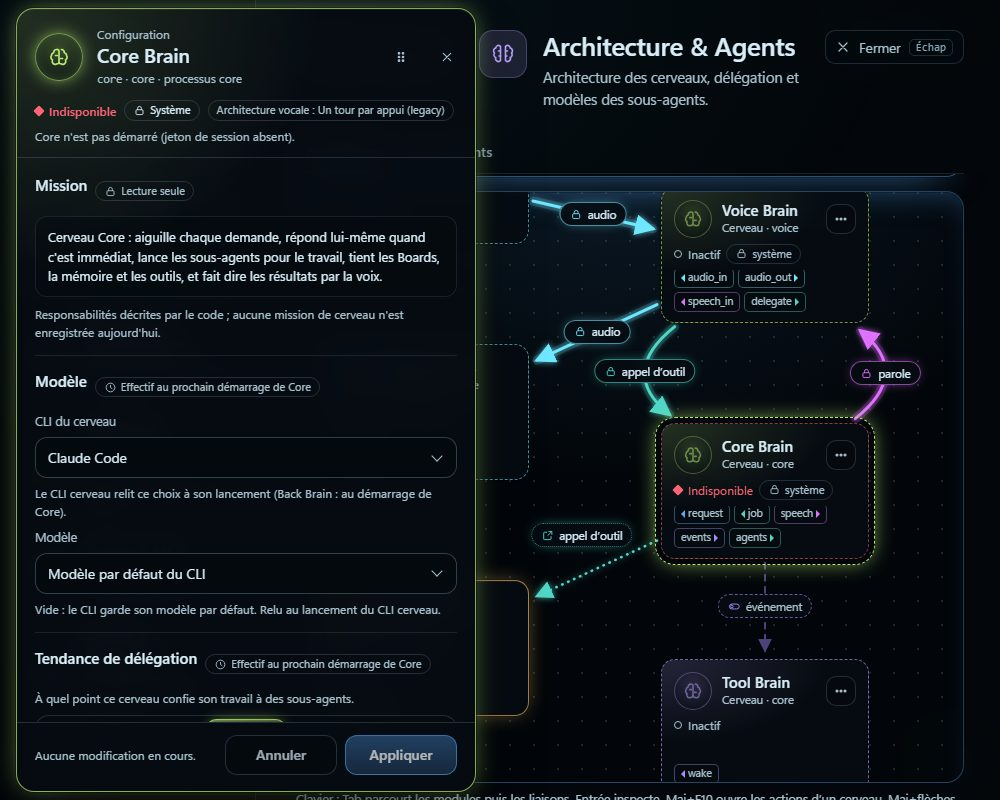
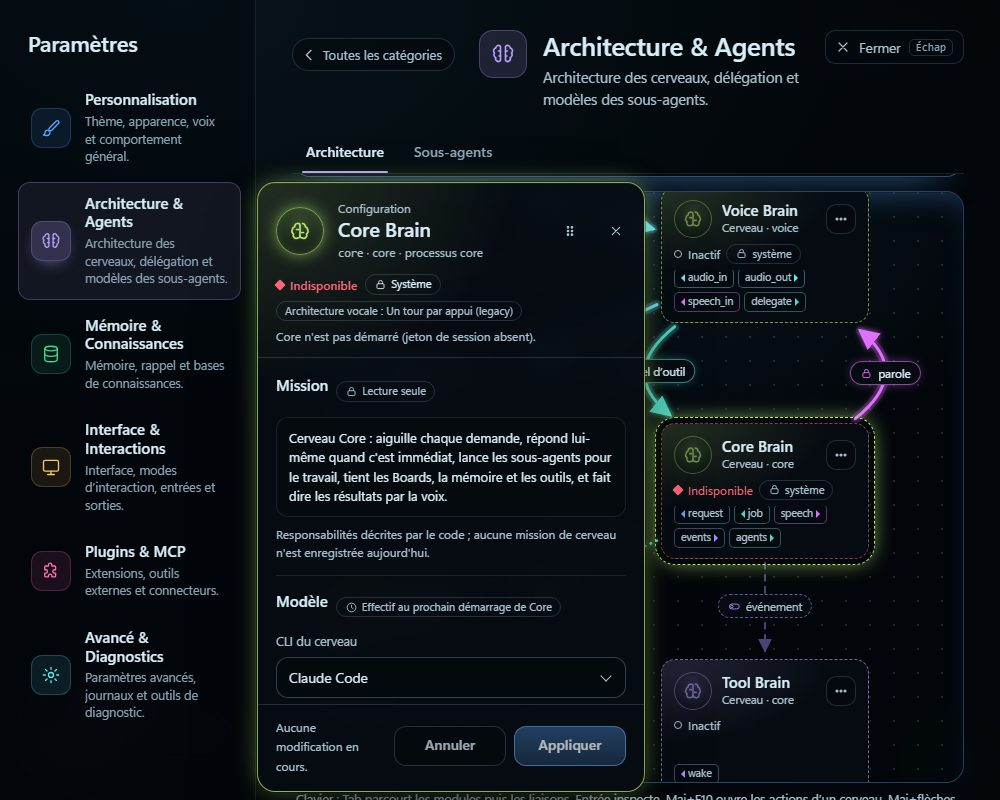
S4: fix - fenêtre du cerveau ouverte à côté de son nœud, dans la zone sous les onglets et à droite du rail
La fenêtre ne masque plus « Toutes les catégories », l'onglet actif ni le rail : position initiale
dans une zone fournie par l'hôte, côté du nœud le plus libre, rétrécie jusqu'à 340 px, jamais sur
le nœud. Test d'atteignabilité à trois tailles, doc, captures refaites ; le journal distingue la
réinitialisation de la disposition (nœuds = 0).

Changed region(s): [[0.0, 0.0, 0.682, 1.0]]

diff --git a/jarvis/runtime/control_center_brain_config_panel.js b/jarvis/runtime/control_center_brain_config_panel.js
@@ -25,7 +25,7 @@
   'use strict';
   const STYLE_ID='jarvisBrainConfigPanelStyle';
   const DEFAULT_TIMEOUT_MS=15000;
-  const MOVE_STEP=16,EDGE=8,WIN_W=460;
+  const MOVE_STEP=16,EDGE=8,WIN_W=460,MIN_W=340,GAP=16,PREFERRED_H=640;
   const esc=v=>String(v??'').replace(/[&<>"']/g,c=>({'&':'&amp;','<':'&lt;','>':'&gt;','"':'&quot;',"'":'&#39;'}[c]));
   const own=(o,k)=>!!o&&Object.prototype.hasOwnProperty.call(o,k);
   const clone=v=>v==null?v:JSON.parse(JSON.stringify(v));
@@ -125,7 +125,7 @@
       conflict:null,            // {text} : texte relu du serveur après un conflit d'instructions
       confirm:null,             // {kind:'close'|'replace', next}
       notice:null,              // {tone, text}
-      live:'',pos:null,destroyed:false,
+      live:'',pos:null,box:null,destroyed:false,
     };
     let ticker=null,origin=null,drag=null,generation=0;
     const layer=doc&&doc.createElement?doc.createElement('div'):null;
@@ -437,24 +437,34 @@
     const narrow=()=>{try{return !!(root.matchMedia&&root.matchMedia('(max-width:720px)').matches)}catch(_e){return false}};
     function viewport(){return {w:root.innerWidth||1280,h:root.innerHeight||800}}
     function rectOf(x){try{const el=typeof x==='function'?x():x;return el&&el.getBoundingClientRect?el.getBoundingClientRect():(x&&Number.isFinite(x.left)?x:null)}catch(_e){return null}}
-    /* Première position : à côté de l'ancre (le nœud), sinon contre le bord droit de l'hôte ; jamais hors écran. */
+    /* Zone où la fenêtre s'ouvre : `opts.zone` (rectangle ou fonction, donné par l'hôte : dans les Réglages, sous les
+       onglets et à droite du rail des catégories), sinon l'écran ; toujours rognée à l'écran moins EDGE. */
+    function zoneRect(){
+      const v=viewport();let z=null;
+      try{z=typeof opts.zone==='function'?opts.zone():opts.zone}catch(e){logError('brain_config_zone_failed',e,{brainId:st.brainId})}
+      const ok=z&&[z.left,z.top,z.right,z.bottom].every(Number.isFinite);
+      const r={left:Math.max(EDGE,ok?z.left:0),top:Math.max(EDGE,ok?z.top:0),right:Math.min(v.w-EDGE,ok?z.right:v.w),bottom:Math.min(v.h-EDGE,ok?z.bottom:v.h)};
+      /* Zone dégénérée (fenêtre minuscule) : l'écran entier plutôt qu'une fenêtre écrasée. */
+      return r.right-r.left<240||r.bottom-r.top<200?{left:EDGE,top:EDGE,right:v.w-EDGE,bottom:v.h-EDGE}:r;
+    }
+    /* Première position (refonte-ui-settings, Slice 04, reprise) : dans la zone, du côté du nœud qui a le plus de place,
+       à GAP px de lui, sans jamais le recouvrir ; à côté (largeur ≥ MIN_W), sinon dessous ou dessus. La hauteur
+       maximale suit la place disponible (le corps défile). Sans ancre : en haut à droite de la zone. */
     function initialPos(){
-      /* Contre le bord droit de l'hôte, sur la colonne de l'inspecteur du canevas plutôt que sur les nœuds, à la
-         hauteur de l'ancre : le graphe reste lisible (la fenêtre se déplace ensuite au gré de l'utilisateur). */
-      const v=viewport(),w=Math.min(WIN_W,v.w-2*EDGE),a=rectOf(opts.anchor),h=rectOf(host);
-      const hostRight=Math.min(h&&h.width?h.right:v.w,v.w);
-      const right=hostRight-w-16,left=EDGE+8;
-      /* Slice 07 : dans le shell des Réglages, le canevas est plus étroit que la page de démonstration et le nœud peut
-         tomber sous la colonne de droite. La fenêtre ne doit pas couvrir le cerveau qu'elle configure : bord droit de
-         l'hôte si le nœud reste libre, sinon bord gauche de l'écran (sur le rail des catégories, le graphe reste
-         visible), sinon le côté qui a le plus de place, collé au nœud. */
-      let x=right;
-      if(a&&a.width&&a.right>right){
-        if(left+w<=a.left)x=left;
-        else x=a.left>(v.w-a.right)?Math.max(left,a.left-w-16):a.right+16;
+      const z=zoneRect(),w=Math.min(WIN_W,z.right-z.left),a=rectOf(opts.anchor),zh=z.bottom-z.top;
+      const tall=Math.min(zh,PREFERRED_H);
+      if(!a||!a.width)return {x:z.right-w,y:z.top,w,maxH:zh};
+      /* À côté : le côté qui a le plus de place ; la fenêtre s'y rétrécit jusqu'à MIN_W plutôt que de passer
+         dessus ou dessous, où elle serait trop basse pour être utile. */
+      const right=z.right-(a.right+GAP),left=(a.left-GAP)-z.left,side=Math.max(right,left);
+      if(side>=Math.min(MIN_W,w)){
+        const sw=Math.min(w,side),x=right>=left?a.right+GAP:a.left-GAP-sw;
+        const y=Math.max(z.top,Math.min(a.top-24,z.bottom-tall));
+        return {x,y,w:sw,maxH:z.bottom-y};
       }
-      const y=a?a.top-24:(h&&h.width?Math.max(h.top,0)+16:24);
-      return clampPos({x,y});
+      const below=z.bottom-(a.bottom+GAP),above=(a.top-GAP)-z.top;
+      const x=Math.max(z.left,Math.min(a.left+a.width/2-w/2,z.right-w));
+      return below>=above?{x,y:a.bottom+GAP,w,maxH:below}:{x,y:z.top,w,maxH:above};
     }
     function clampPos(p){
       const v=viewport(),el=win(),r=el&&el.getBoundingClientRect?el.getBoundingClientRect():{width:Math.min(WIN_W,v.w),height:200};
@@ -462,7 +472,8 @@
     }
     function clampWindow(){
       const el=win();if(!el||!el.style||narrow())return;
-      if(!st.pos)st.pos=initialPos();
+      if(!st.pos){const p=initialPos();st.box={w:p.w,maxH:p.maxH};st.pos={x:Math.round(p.x),y:Math.round(p.y)}}
+      if(st.box){el.style.width=Math.floor(st.box.w)+'px';el.style.maxHeight=Math.max(160,Math.floor(st.box.maxH))+'px'}
       st.pos=clampPos(st.pos);el.style.left=st.pos.x+'px';el.style.top=st.pos.y+'px';
     }
     function moveBy(dx,dy){if(narrow()||!st.pos)return;st.pos=clampPos({x:st.pos.x+dx,y:st.pos.y+dy});const el=win();if(el){el.style.left=st.pos.x+'px';el.style.top=st.pos.y+'px'}}
@@ -979,7 +990,7 @@ p.bcp-hint{display:flex}
 .bcp-sr{position:absolute;width:1px;height:1px;margin:-1px;overflow:hidden;clip:rect(0 0 0 0);white-space:nowrap}
 @media (max-width:720px){
   .bcp-scrim{display:block;position:fixed;inset:0;pointer-events:auto;background:var(--set-veil,rgba(0,0,0,.5))}
-  .bcp-win{left:8px!important;right:8px;top:auto!important;bottom:8px;width:auto;max-height:min(88vh,calc(100vh - 16px));border-radius:var(--set-r-xl,16px)}
+  .bcp-win{left:8px!important;right:8px;top:auto!important;bottom:8px;width:auto!important;max-height:min(88vh,calc(100vh - 16px))!important;border-radius:var(--set-r-xl,16px)}
   .bcp-head{cursor:default}.bcp-grip{display:none}
   .bcp-segs-5{grid-template-columns:repeat(auto-fit,minmax(88px,1fr))}
 }

diff --git a/jarvis/runtime/control_center_architecture_settings.js b/jarvis/runtime/control_center_architecture_settings.js
@@ -400,6 +400,12 @@
       if(kind.startsWith('architecture.layout'))return 'Disposition';
       return kind.startsWith('brain_config')?'Cerveau':'Architecture';
     }
+    /* Le serveur écrit le même message pour un déplacement et une réinitialisation (`architecture.layout.saved`) ; une
+       disposition enregistrée sans aucun nœud (`data.nodes === 0`) est une réinitialisation : on le dit. */
+    function journalMessage(e){
+      if(e.kind==='architecture.layout.saved'&&e.data&&e.data.nodes===0)return 'Disposition réinitialisée : disposition automatique';
+      return e.message||e.kind;
+    }
     function journalTime(ts){
       const d=new Date(ts);
       if(!ts||Number.isNaN(d.getTime()))return '—';
@@ -418,7 +424,7 @@
           <table class="set-table"><thead><tr><th scope="col">Heure</th><th scope="col">Module</th><th scope="col">Événement</th></tr></thead><tbody>
           ${j.entries.map(e=>{const [tone,word]=LEVEL[e.level]||['info',''];return `<tr data-arch-journal-entry="${esc(e.kind)}"><td class="set-num arch-journal-time">${esc(journalTime(e.ts))}</td>
             <td><span class="set-dot set-dot-${tone} arch-journal-src">${esc(journalSource(e))}</span></td>
-            <td>${word?`<span class="arch-sr">${word} : </span>`:''}${esc(e.message||e.kind)}</td></tr>`}).join('')}</tbody></table></div></div>
+            <td>${word?`<span class="arch-sr">${word} : </span>`:''}${esc(journalMessage(e))}</td></tr>`}).join('')}</tbody></table></div></div>
           ${j.phase==='error'?`<p class="arch-hint arch-bad">Actualisation impossible : ${esc(j.error.message)} <code>${esc(j.error.code)}</code></p>`:''}`;
       const aside=j.phase==='none'?'':`${j.phase==='loading'&&j.entries.length?'<span class="arch-spin" aria-hidden="true"></span>':''}<button type="button" class="set-btn set-btn-ghost set-btn-sm" data-arch-act="journal-reload"${j.phase==='loading'?' disabled':''}>${glyph('refresh')}Actualiser</button>`;
       return card('journal','Journal d’architecture','journal',body,aside,'arch-journal');

diff --git a/jarvis/runtime/control_center.html b/jarvis/runtime/control_center.html
@@ -5758,6 +5758,16 @@ function syncCoreCliDraft(config){
   SET.clis=null;  // le CLI actif a pu changer : Runtime & CLI refait sa détection
   console.info('architecture_settings.core_cli_synced',{provider,model:model||'(défaut)'});
 }
+/* Zone d'ouverture de la fenêtre d'un cerveau (refonte-ui-settings, Slice 04) : sous les onglets de la page et à droite
+   du rail des catégories, pour que « Toutes les catégories », l'onglet actif et le rail restent atteignables. Rail
+   empilé au-dessus du contenu (fenêtre étroite) : il est déjà au-dessus des onglets, seule la limite haute compte. */
+function architecturePanelZone(){
+  const shown=el=>el&&el.getClientRects().length?el.getBoundingClientRect():null;
+  const ov=shown(document.getElementById('overlay'))||{left:0,top:0,right:innerWidth,bottom:innerHeight};
+  const tabs=shown(document.getElementById('modalTabs')),rail=shown(document.getElementById('settingsCategories'));
+  const beside=rail&&tabs&&rail.right<=tabs.left;
+  return {left:beside?rail.right+16:ov.left,top:tabs?tabs.bottom+8:ov.top,right:ov.right,bottom:ov.bottom};
+}
 function mountArchitectureSettings(host,context){
   const A=window.JarvisArchitectureSettings,P=window.JarvisBrainConfigPanel;
   if(!A||!P){
@@ -5785,6 +5795,7 @@ function mountArchitectureSettings(host,context){
     ARCH.panel=P.open(panels,{adapter:panelAdapter,brainId:nodeId,field:detail&&detail.field,
       returnFocus:P.canvasReturnFocus(canvas,nodeId,detail||{}),
       anchor:()=>canvas.querySelector(`[data-arch-node="${CSS.escape(nodeId)}"]`),
+      zone:architecturePanelZone,
       nodeLabel,
       onFocusConnection:id=>{if(ARCH.view)ARCH.view.select('connection',id)},
       onSaved:saved=>{

diff --git a/tests/unit/test_architecture_workspace_browser.py b/tests/unit/test_architecture_workspace_browser.py
@@ -34,6 +34,8 @@ TRACE = [
      "message": "Disposition du graphe enregistrée", "data": {"revision": "3", "nodes": 6}},
     {"ts": "2026-10-24T12:32:15+00:00", "kind": "architecture.write.refused", "level": "warning",
      "message": "Écriture d'architecture refusée", "data": {"code": "connection_locked", "status": 423}},
+    {"ts": "2026-10-24T12:32:16+00:00", "kind": "architecture.layout.saved", "level": "info",
+     "message": "Disposition du graphe enregistrée", "data": {"revision": "4", "nodes": 0}},
     {"ts": "2026-10-24T12:32:18+00:00", "kind": "brain_config.saved", "level": "info",
      "message": "Configuration du cerveau core : delegation enregistré.", "data": {"brain_id": "core", "fields": ["delegation"]}},
 ]
@@ -59,6 +61,7 @@ REGIONS = """(()=>{const q=s=>document.querySelector(s),all=s=>[...document.quer
     locked:snap.connections.filter(c=>c.mutability==='required_locked'||c.mutability==='governed').map(c=>c.id),
     legendChannels:all('.arch-legend-ch li').length,channels:chans.size,
     journal:all('[data-arch-journal-entry]').map(e=>e.getAttribute('data-arch-journal-entry')),
+    journalText:all('[data-arch-journal-entry]').map(e=>e.textContent),
     voiceLink:(q('[data-arch-voice] [data-settings-open]')||{}).textContent||null,
     subagents:!!q('[data-arch-card=actions] [data-settings-open=subagents]')}})()"""
 
@@ -101,7 +104,10 @@ async def test_workspace_composes_the_reference_without_overflow_and_the_window_
         assert set(r["rules"]) <= set(r["locked"]) and r["rules"], r
         assert r["legendChannels"] == r["channels"], r
         # Le journal garde l'architecture et la configuration des cerveaux, plus récente d'abord, sans les lectures.
-        assert r["journal"] == ["brain_config.saved", "architecture.write.refused", "architecture.layout.saved"], r
+        assert r["journal"] == ["brain_config.saved", "architecture.layout.saved", "architecture.write.refused",
+                                "architecture.layout.saved"], r
+        # Une disposition vide est une réinitialisation : le journal le dit (même événement serveur qu'un déplacement).
+        assert "Disposition réinitialisée" in r["journalText"][1] and "réinitialisée" not in r["journalText"][3], r
         assert r["voiceLink"] and r["subagents"], r
         assert got(step, "overflow")["page"] == 0 and got(step, "overflow_panel")["page"] == 0, (width, got(step, "overflow"))
         p = got(step, "panel")
@@ -186,3 +192,29 @@ async def test_an_unreadable_journal_says_so_with_its_code(served):
     text = got(step, "error")
     assert "Journal verrouillé" in text and "trace_unreadable" in text, text
     assert got(step, "retry") is True
+
+
+#: Points d'entrée de la page encore atteignables (centre de l'élément) et recouvrement du nœud configuré.
+REACHABLE = """(()=>{const hit=sel=>{const e=document.querySelector(sel);if(!e)return 'absent';const r=e.getBoundingClientRect();
+    const top=document.elementFromPoint(r.left+r.width/2,r.top+r.height/2);return !!top&&e.contains(top)};
+  const w=document.querySelector('.bcp-win').getBoundingClientRect(),
+    n=document.querySelector('[data-architecture-page] [data-arch-node=core]').getBoundingClientRect();
+  const ox=Math.max(0,Math.min(w.right,n.right)-Math.max(w.left,n.left)),oy=Math.max(0,Math.min(w.bottom,n.bottom)-Math.max(w.top,n.top));
+  return {back:hit('#settingsBack'),tab:hit('#modalTabs [aria-selected=true]'),rail:hit('#settingsCategories [data-category]'),
+    overlap:ox*oy,width:Math.round(w.width),height:Math.round(w.height),inViewport:w.left>=0&&w.top>=0&&w.right<=innerWidth&&w.bottom<=innerHeight,
+    gap:Math.round(Math.min(Math.abs(w.left-n.right),Math.abs(n.left-w.right),Math.abs(w.top-n.bottom),Math.abs(n.top-w.bottom)))}})()"""
+
+
+async def test_the_brain_window_opens_beside_its_node_and_leaves_the_settings_chrome_reachable(served):
+    sizes = [(1672, 941), (1254, 1254), (1280, 800)]
+    out = await drive(served.url, [{"width": w, "height": h, "actions": [
+        *VIEWS["architecture"], *OPEN_CORE, eval_("new Promise(r=>setTimeout(()=>r(1),300))"), eval_(REACHABLE, "reach")]}
+        for w, h in sizes])
+    assert out["console"] == [], out["console"]
+    for size, step in zip(sizes, out["steps"]):
+        assert all(a["ok"] for a in step["actions"] if a.get("a") == "wait"), size
+        r = got(step, "reach")
+        assert r["back"] is True and r["tab"] is True and r["rail"] is True, (size, r)
+        assert r["overlap"] == 0 and r["inViewport"], (size, r)
+        assert r["gap"] <= 40, ("la fenêtre s'ouvre près du nœud", size, r)
+        assert r["width"] >= 340 and r["height"] >= 300, ("assez grande pour être utile", size, r)

diff --git a/tests/unit/test_brain_config_panel_browser.py b/tests/unit/test_brain_config_panel_browser.py
@@ -171,10 +171,12 @@ def test_the_header_drags_the_window_and_replacing_with_a_draft_asks(tmp_path):
         {"eval": left},
         {"drag": ".bcp-head .bcp-sub", "dx": 240, "dy": 60},
         {"eval": left},
-        # Rendue à sa place, à gauche : le nœud Voice reste libre pour le clic droit qui suit.
         {"drag": ".bcp-head .bcp-sub", "dx": -240, "dy": 0},
         {"eval": "window.__panel.setDraft('instructions','Brouillon en cours');1"},
-        {"click": '[data-arch-node="voice"] .arch-node-name', "button": "right"},
+        # Slice 04 de refonte-ui-settings : la fenêtre s'ouvre contre le nœud configuré et peut couvrir un voisin ; le
+        # menu de Voice s'ouvre au clavier (Maj+F10), comme le permet tout nœud.
+        {"eval": "document.querySelector('[data-arch-node=\"voice\"]').focus();1"},
+        {"key": "F10", "shift": True},
         {"key": "Enter"},
         {"wait": 200},
         {"eval": f"[document.querySelector('[data-bcp-confirm]').getAttribute('data-bcp-confirm'),window.__panel.brainId,document.querySelectorAll('.bcp-win').length,{ACTIVE}]"},
@@ -186,9 +188,9 @@ def test_the_header_drags_the_window_and_replacing_with_a_draft_asks(tmp_path):
     ])
     (x0, y0), (x1, y1) = out[4], out[6]
     # La fenêtre est presque aussi haute que la fenêtre du navigateur : verticalement, elle reste bornée à l'écran.
-    assert x1 - x0 == 240 and 8 <= y1 <= y0 + 60  # posée à gauche (Slice 07), elle se glisse vers la droite
-    assert out[12] == ["replace", "core", 1, "confirm-keep"]
-    brain, count, delegation = out[16]
+    assert x1 - x0 == 240 and 8 <= y1 <= y0 + 60  # posée à côté du nœud, elle se glisse vers la droite
+    assert out[13] == ["replace", "core", 1, "confirm-keep"]
+    brain, count, delegation = out[17]
     assert brain == "voice" and count == 1 and "Sans objet" in delegation and "onglet Sous-agents" in delegation
 
 

diff --git a/docs/settings/brain-config-panel.md b/docs/settings/brain-config-panel.md
@@ -22,6 +22,7 @@ const win = JarvisBrainConfigPanel.open(panelsHost, {
   brainId: nodeId,                // identifiant du nœud du graphe (voice, luna, core, tool_brain)
   field,                          // facultatif : champ à montrer (« delegation » depuis une liaison gouvernée)
   returnFocus: JarvisBrainConfigPanel.canvasReturnFocus(canvasHost, nodeId, detail), // facultatif
+  zone: () => ({left, top, right, bottom}), // facultatif : où la fenêtre s'ouvre (§ 6), sinon l'écran
   anchor: () => canvasHost.querySelector(`[data-arch-node="${nodeId}"]`),            // facultatif : hauteur initiale
   nodeLabel: id => label,         // facultatif : nom des pairs dans le résumé des connexions
   onFocusConnection: id => view.select('connection', id),  // « Voir sur le graphe »
@@ -142,9 +143,13 @@ nœud configuré porte un cadre pointillé lumineux sur le canevas tant que la f
   Slice), le bouton « Configurer… » de l'inspecteur, sinon le nœud. Sans `returnFocus`, l'élément actif à
   l'ouverture.
 - Glisser par l'en-tête, ou le bouton de prise + flèches (pas de 16 px) ; la fenêtre reste dans l'écran. Position
-  initiale : contre le bord droit de l'hôte (colonne de l'inspecteur), à la hauteur de l'ancre ; si l'ancre (le nœud)
-  tomberait dessous, contre le bord gauche de l'écran, sinon du côté qui a le plus de place (Slice 07 : la fenêtre ne
-  couvre pas le cerveau qu'elle configure).
+  initiale (refonte-ui-settings, Slice 04, remplace la règle de la Slice 07) : dans la **zone** `opts.zone`
+  (rectangle ou fonction ; sans elle, l'écran), du côté du nœud configuré qui a le plus de place, à 16 px de lui,
+  à la hauteur de l'ancre ; elle s'y rétrécit jusqu'à 340 px plutôt que de passer dessus ou dessous (repli quand
+  aucun côté n'a 340 px). Elle ne recouvre jamais le nœud ; sa hauteur maximale est la place restante dans la zone
+  (le corps défile). Dans les Réglages, `architecturePanelZone()` (`control_center.html`) donne la zone : sous
+  `#modalTabs` + 8 px, de `#settingsCategories` + 16 px (rail à gauche) jusqu'au bord droit de l'overlay, pour que
+  « Toutes les catégories », l'onglet actif et le rail restent atteignables.
 - Sous 720 px : panneau en bas d'écran sur toute la largeur, voile derrière (un clic ferme, avec garde), pas de
   glisser, aucun défilement horizontal.
 - États qui durent : lecture et enregistrement montrent un compteur de secondes et une échéance (`timeoutMs`) ; à

diff --git a/tasks/refonte-ui-settings/LOG.md b/tasks/refonte-ui-settings/LOG.md
@@ -106,6 +106,21 @@ perdu sur une règle par la relecture du journal) : corrigée (`renderJournal`, 
 Risques de fusion : `control_center.html` touché d'une ligne (montage du canevas) ; les deux modules et leurs docs
 sont propres à la Slice 04.
 
+## Slice 04 — reprise avant fusion (2026-10-24)
+
+- Bloquant QA : avec 3 colonnes, la fenêtre du cerveau s'ouvrait au bord gauche (y = 8) sur « Toutes les
+  catégories », l'onglet, le titre et le rail. Nouvelle position initiale (`initialPos`, option `zone`) : côté du nœud
+  qui a le plus de place, à 16 px, rétrécie jusqu'à 340 px, jamais sur le nœud, hauteur bornée à la zone ; zone
+  donnée par `architecturePanelZone()` (`control_center.html` : sous `#modalTabs` + 8, à droite de
+  `#settingsCategories` + 16). Mode feuille sous 720 px et glisser inchangés.
+- Test ajouté (`test_architecture_workspace_browser`) : à 1672×941, 1254×1254, 1280×800, `#settingsBack`, l'onglet actif
+  et le rail restent atteignables (`elementFromPoint`), fenêtre près du nœud, sans le couvrir, ≥ 340×300.
+  `test_brain_config_panel_browser` : le menu de Voice s'ouvre au clavier (la fenêtre, contre Core, couvre Voice).
+- Mineur : le serveur journalise la réinitialisation comme un déplacement (`architecture.layout.saved`) ; sans changer
+  le contrat, le journal de la page lit `data.nodes === 0` comme « Disposition réinitialisée ».
+- Tests : panneau navigateur 8, espace de travail 5, canevas statique + js + couches du shell + panneau js 81,
+  `test_architecture_agents_settings_browser` + autres 59 verts. Captures `apres-fenetre-*` refaites.
+
 ## LOG Drive d'origine
 # Execution log
 
